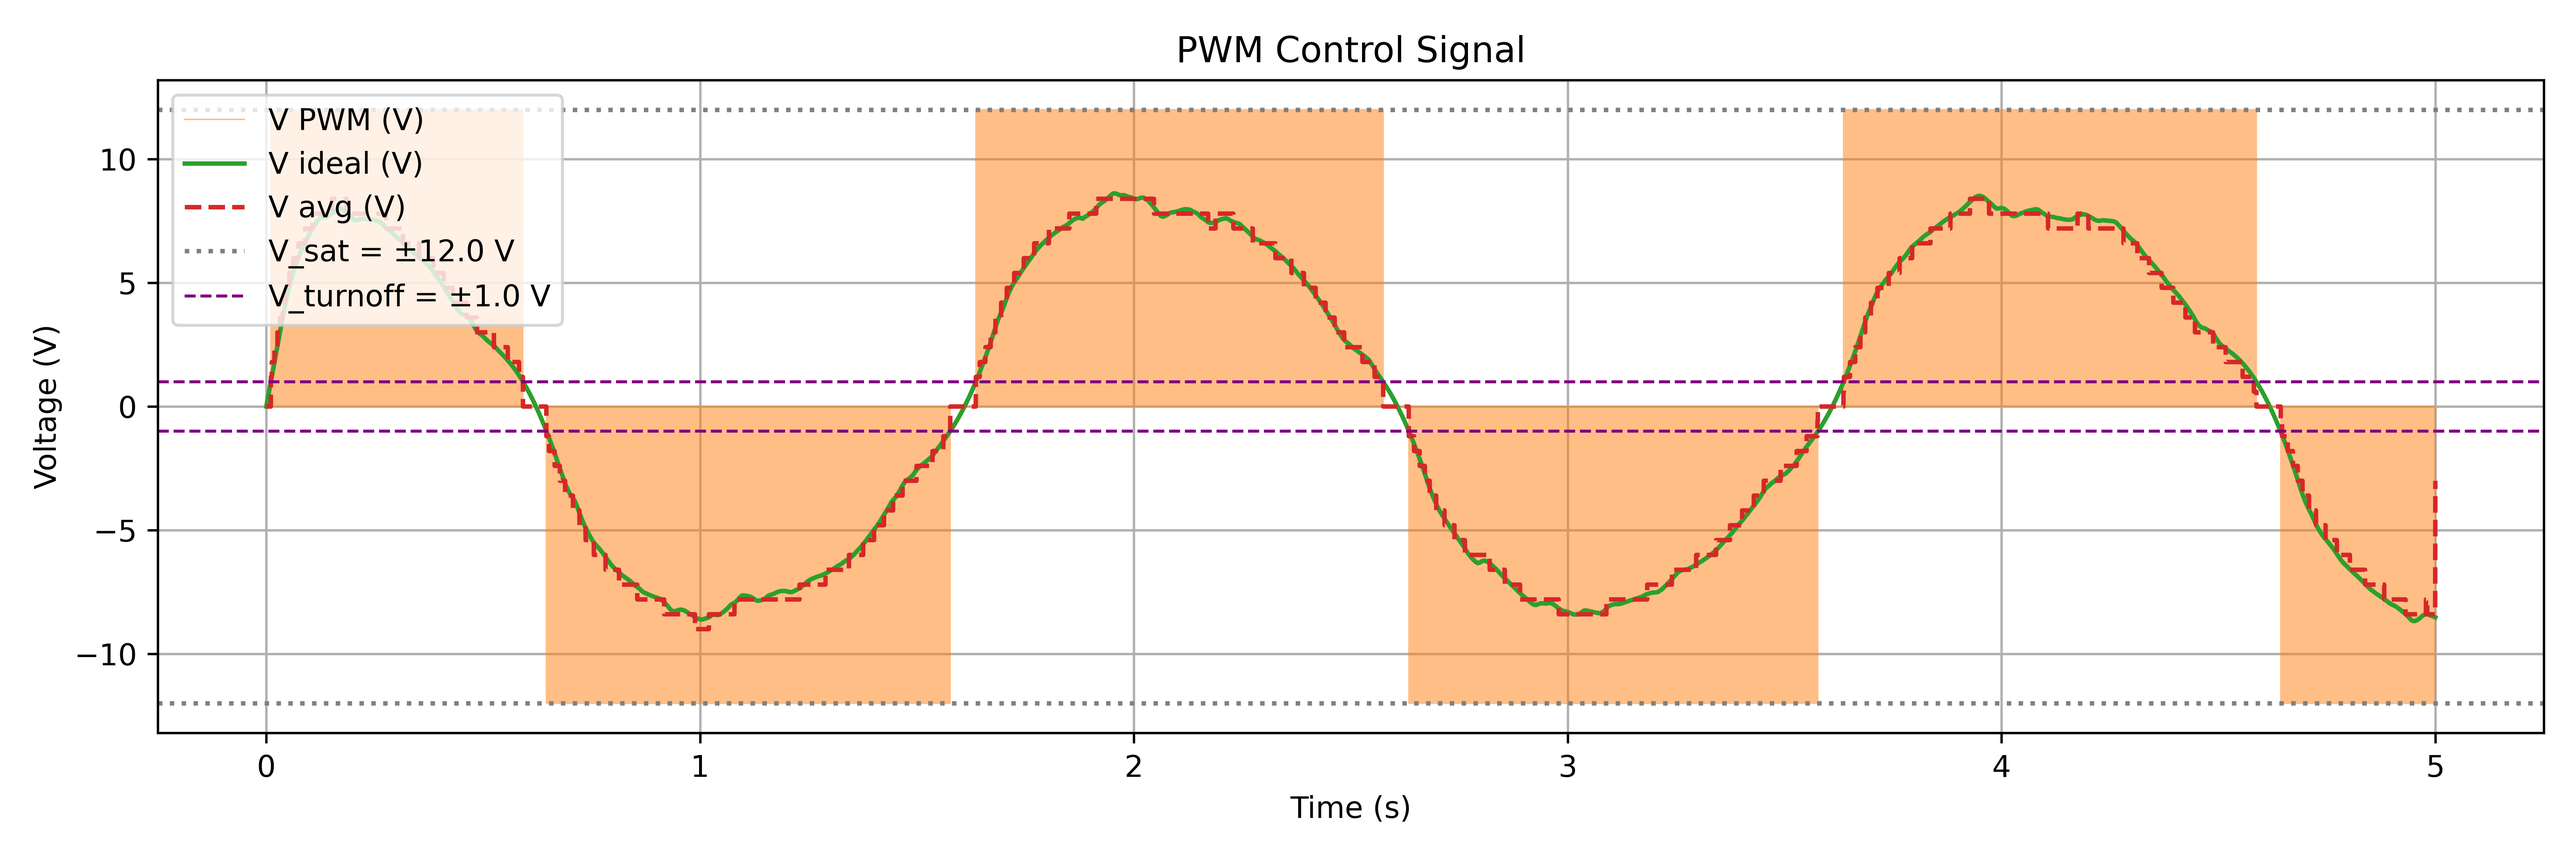
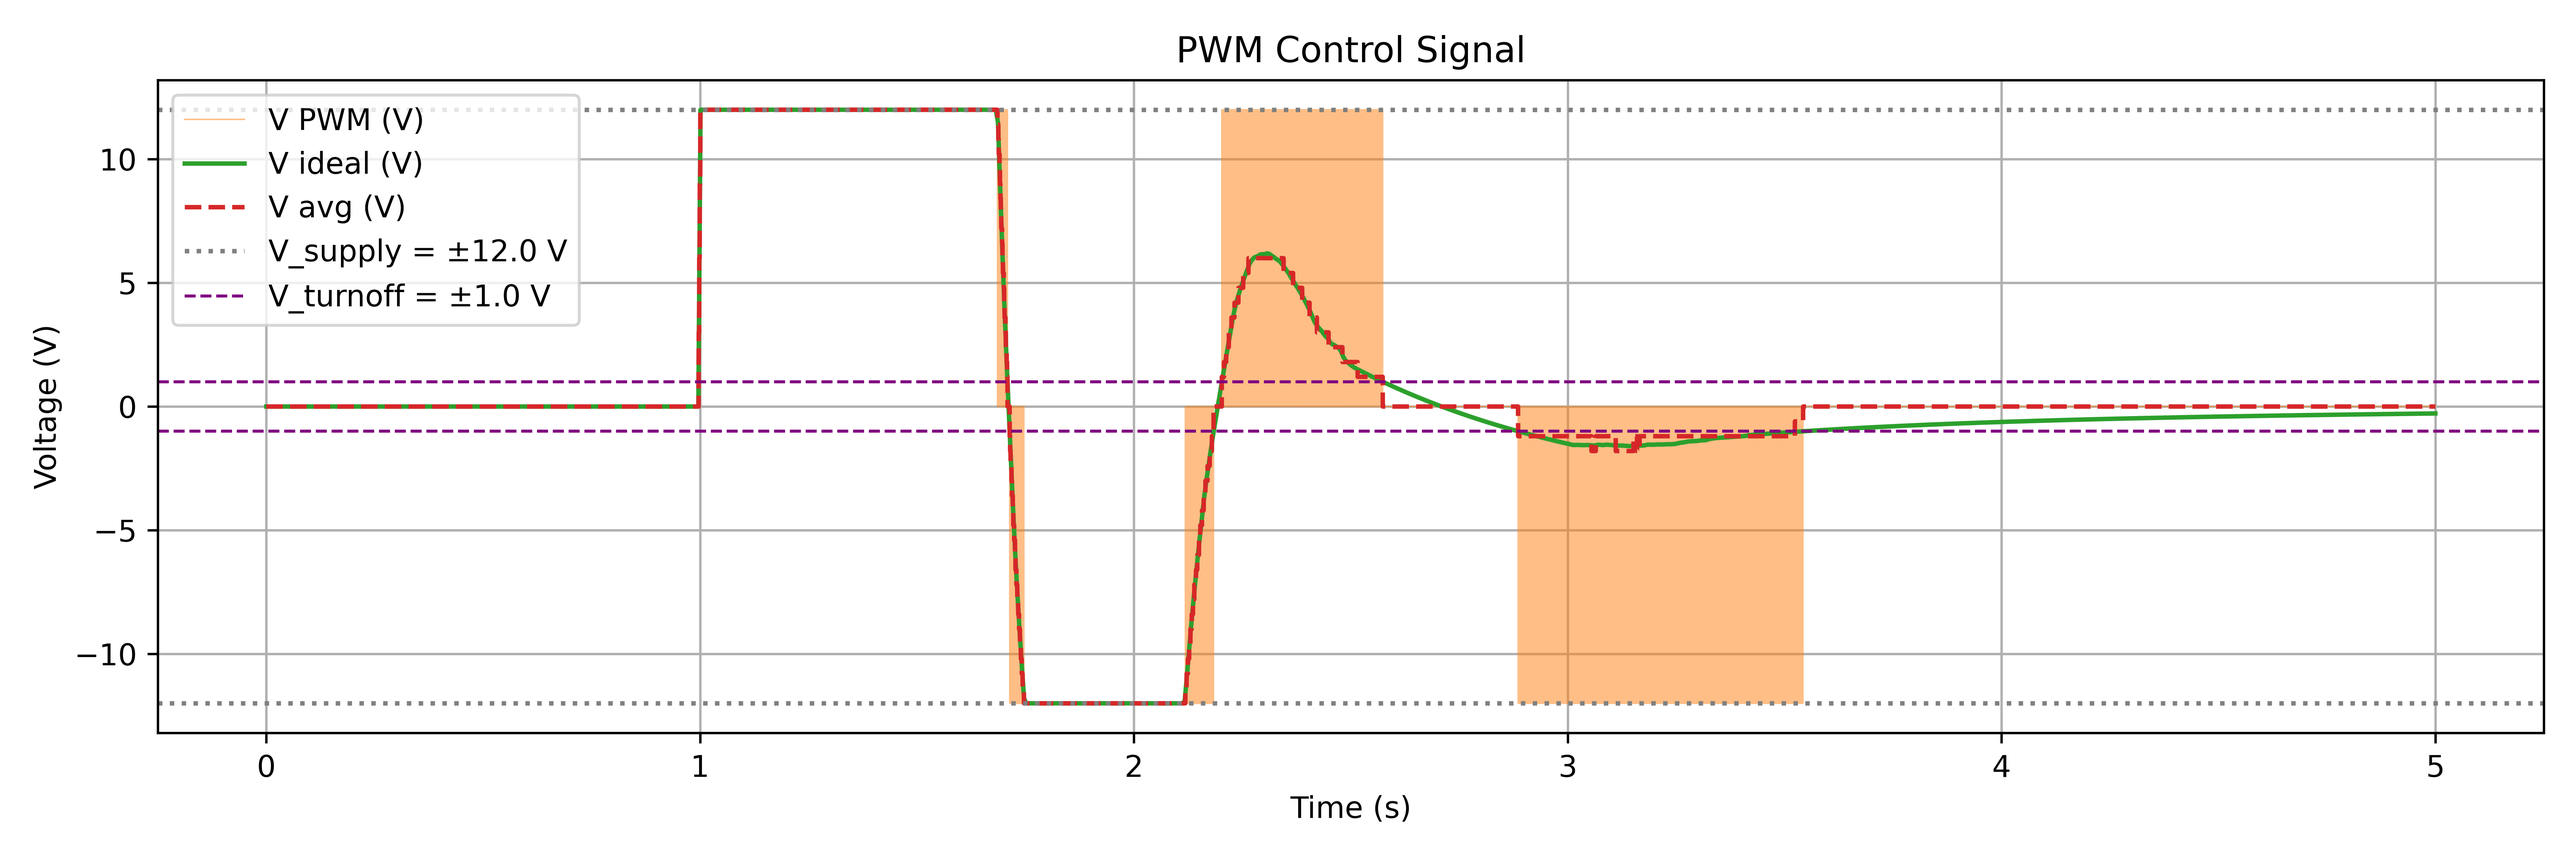
More correct motor parameters. Missing inductance and inertia

Changed region(s): [[0.0938, 0.125, 0.5312, 0.8438], [0.5312, 0.125, 0.9688, 0.8438]]

diff --git a/motor_integration/pwm_control_pololu_motor.py b/motor_integration/pwm_control_pololu_motor.py
@@ -12,7 +12,7 @@ N = 1000  # Number of time steps
 t_eval = np.linspace(0, T, N)
 dt = t_eval[1] - t_eval[0]
 save_folder_path = "motor_integration/figures"
-filename = "pi_pd_pwm_control_results.png"
+filename = "pi_pd_pwm_pololu_control_results.png"
 
 theta_0 = 0.0  # Initial angle (rad)
 omega_0 = 0.0  # Initial angular velocity (rad/s)
@@ -21,18 +21,36 @@ i_a_0 = 0.0    # Initial armature current (A)
 """
 Define motor parameters
 """
-
-Jm = 0.093  # kg*m^2 (Rotor moment of inertia)
-Bm = 0.008  # N*m*s (Rotor friction coefficient)
-Kb = 0.6    # V*s/rad (Back EMF constant)
-Kt = 0.7274 # Nm/A (Torque constant)
-Ra = 0.6    # Ω (Armature resistance)
-La = 0.006  # H (Armature inductance)
-
-V_sat = 12.0   # V (Supply voltage / saturation limit)
+V_supply = 12.0   # V (Supply voltage / saturation limit)
 pwm_frequency = 1000.0  # Hz (PWM frequency)
 pwm_period = 1.0 / pwm_frequency  # s (PWM period)
 voltage_turnoff = 1.0  # Absolute voltage level where the PWM output should switch to zero to avoid excessive switching at low voltages
+
+g = 9.81  # m/s^2 (Gravitational acceleration)
+# Information from datasheet: https://www.pololu.com/file/0J1829/pololu-25d-metal-gearmotors.pdf, page 3
+Ia_stall = 4.9  # A
+tau_stall = 220 * g / 1000 # Nm (Stall torque at 12 V)
+
+Ia_no_load = 0.2  # A (No-load current at 12 V)
+theta_dot_no_load = 130 * 2 * pi / 60  # rad/s (No-load speed at 12 V)
+
+Kt = tau_stall / Ia_stall # Nm/A (Torque constant) ≈ 0.44 Nm/A
+Ra = V_supply / Ia_stall # Ω (Armature resistance) ≈ 2.44 Ω (Measured from stall current at 12 V)
+Bm = Kt * Ia_no_load / theta_dot_no_load  # Nm*s (Rotor friction coefficient)
+Kb = (V_supply - Ra * Ia_no_load) / theta_dot_no_load   # V*s/rad (Back EMF constant)
+
+# Unkowns
+Jm = 0.093  # kg*m^2 (Rotor moment of inertia)
+La = 0.006  # H (Armature inductance)
+
+print("Motor parameters:")
+print(f"  Jm = {Jm} kg*m^2")
+print(f"  Bm = {Bm} Nm*s")
+print(f"  Kb = {Kb} V*s/rad")
+print(f"  Kt = {Kt} Nm/A")
+print(f"  Ra = {Ra:.2f} Ω")
+print(f"  La = {La} H")
+print(Kt * 0.87 / g * 1000)
 
 """
 PI-PD control parameters
@@ -41,18 +59,18 @@ Control law (2-DOF structure):
   V = Kp1*(r - θ) + Ki*∫(r - θ)dt  [PI on error]
     - Kp2*ω - Kd*(Kt*i_a - Bm*ω)/Jm [PD feedback on output]
 """
-Kp1 = 6.0
-Ki  = 5.0
+Kp1 = 50.0
+Ki  = 3.0
 
-Kp2 = 1.0
-Kd  = 0.65
+Kp2 = 2.0
+Kd  = 5
 
 t0 = 1.0
 r_max = 5.0
+r = lambda t: r_max * sin(2 * pi * 0.5 * t)  # Sinusoidal reference input (0.5 Hz)
 
 r = lambda t: r_max * (t > t0)  # Step reference input (1 rad)
 
-r = lambda t: r_max * sin(2 * pi * 0.5 * t)  # Sinusoidal reference input (0.5 Hz)
 
 
 """
@@ -68,7 +86,7 @@ State-space realisation  x = [θ, ω, i_a]:
 
 
 def voltage_clamp(V):
-    return np.clip(V, -V_sat, V_sat)
+    return np.clip(V, -V_supply, V_supply)
 
 
 def control_law(theta, theta_error, omega, e_int):
@@ -79,17 +97,17 @@ def control_law(theta, theta_error, omega, e_int):
 def pwm_voltage(t, V_ideal):
     """Convert an ideal voltage to a unipolar PWM signal.
 
-    Duty cycle: d = |V_ideal| / V_sat  ∈ [0, 1]
-    Active level: sign(V_ideal) * V_sat
+    Duty cycle: d = |V_ideal| / V_supply  ∈ [0, 1]
+    Active level: sign(V_ideal) * V_supply
     Off level: 0 V
 
-    Positive V_ideal → switches between +V_sat and 0.
-    Negative V_ideal → switches between -V_sat and 0.
+    Positive V_ideal → switches between +V_supply and 0.
+    Negative V_ideal → switches between -V_supply and 0.
     Works with both scalars and numpy arrays.
     """
-    d = np.abs(V_ideal) / V_sat                 # duty cycle ∈ [0, 1]
+    d = np.abs(V_ideal) / V_supply                 # duty cycle ∈ [0, 1]
     phase = (t % pwm_period) / pwm_period       # phase within current period ∈ [0, 1)
-    active = np.sign(V_ideal) * V_sat
+    active = np.sign(V_ideal) * V_supply
     pwm = np.where(phase < d, active, 0.0)
     return np.where(np.abs(V_ideal) < voltage_turnoff, 0.0, pwm)  # zero output at low voltages
 
@@ -153,8 +171,8 @@ if __name__ == "__main__":
     axes[2].plot(t_pwm, pwm_signal, color='tab:orange', label='V PWM (V)', linewidth=0.5, alpha=0.5)
     axes[2].plot(t_eval, V_ideal, color='tab:green', label='V ideal (V)', linewidth=1.5)
     axes[2].plot(t_pwm, pwm_average, color='tab:red', label='V avg (V)', linewidth=1.5, linestyle='--')
-    axes[2].axhline(V_sat, color='gray', linestyle=':', label=f'V_sat = ±{V_sat} V')
-    axes[2].axhline(-V_sat, color='gray', linestyle=':')
+    axes[2].axhline(V_supply, color='gray', linestyle=':', label=f'V_supply = ±{V_supply} V')
+    axes[2].axhline(-V_supply, color='gray', linestyle=':')
     axes[2].axhline(voltage_turnoff, color='purple', linestyle='--', linewidth=1.0, label=f'V_turnoff = ±{voltage_turnoff} V')
     axes[2].axhline(-voltage_turnoff, color='purple', linestyle='--', linewidth=1.0)
     axes[2].legend(loc='upper left')
@@ -162,15 +180,14 @@ if __name__ == "__main__":
 
     plt.tight_layout()
     plt.savefig(f"{save_folder_path}/{filename}")
-    plt.show()
 
     # Save the PWM subplot separately
     fig_pwm, ax_pwm = plt.subplots(figsize=(12, 4))
     ax_pwm.plot(t_pwm, pwm_signal, color='tab:orange', label='V PWM (V)', linewidth=0.5, alpha=0.5)
     ax_pwm.plot(t_eval, V_ideal, color='tab:green', label='V ideal (V)', linewidth=1.5)
     ax_pwm.plot(t_pwm, pwm_average, color='tab:red', label='V avg (V)', linewidth=1.5, linestyle='--')
-    ax_pwm.axhline(V_sat, color='gray', linestyle=':', label=f'V_sat = ±{V_sat} V')
-    ax_pwm.axhline(-V_sat, color='gray', linestyle=':')
+    ax_pwm.axhline(V_supply, color='gray', linestyle=':', label=f'V_supply = ±{V_supply} V')
+    ax_pwm.axhline(-V_supply, color='gray', linestyle=':')
     ax_pwm.axhline(voltage_turnoff, color='purple', linestyle='--', linewidth=1.0, label=f'V_turnoff = ±{voltage_turnoff} V')
     ax_pwm.axhline(-voltage_turnoff, color='purple', linestyle='--', linewidth=1.0)
     ax_pwm.legend(loc='upper left')
